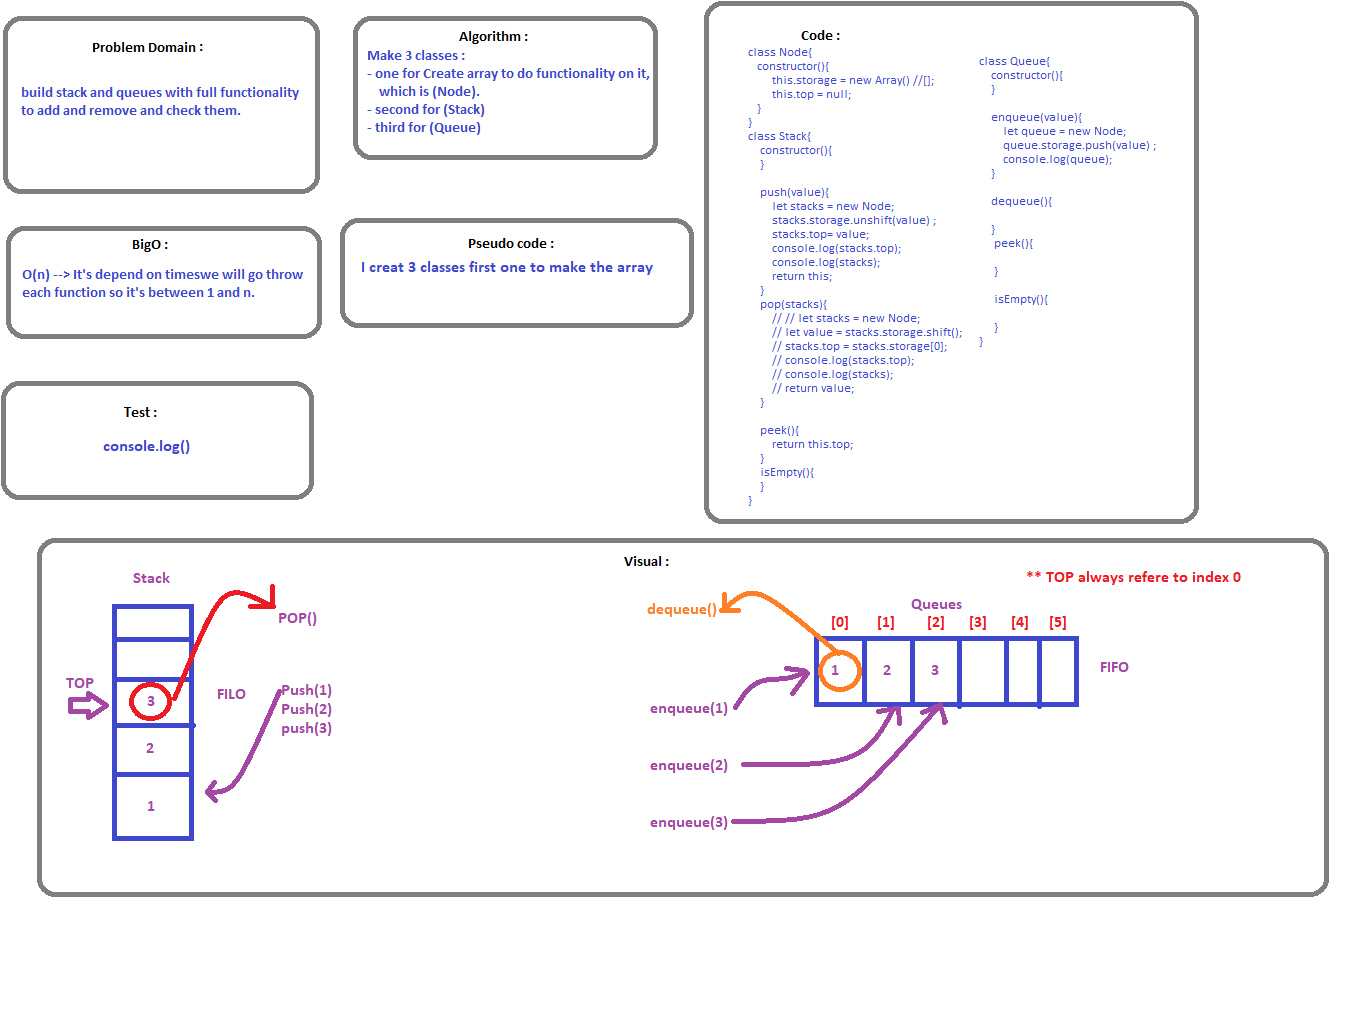
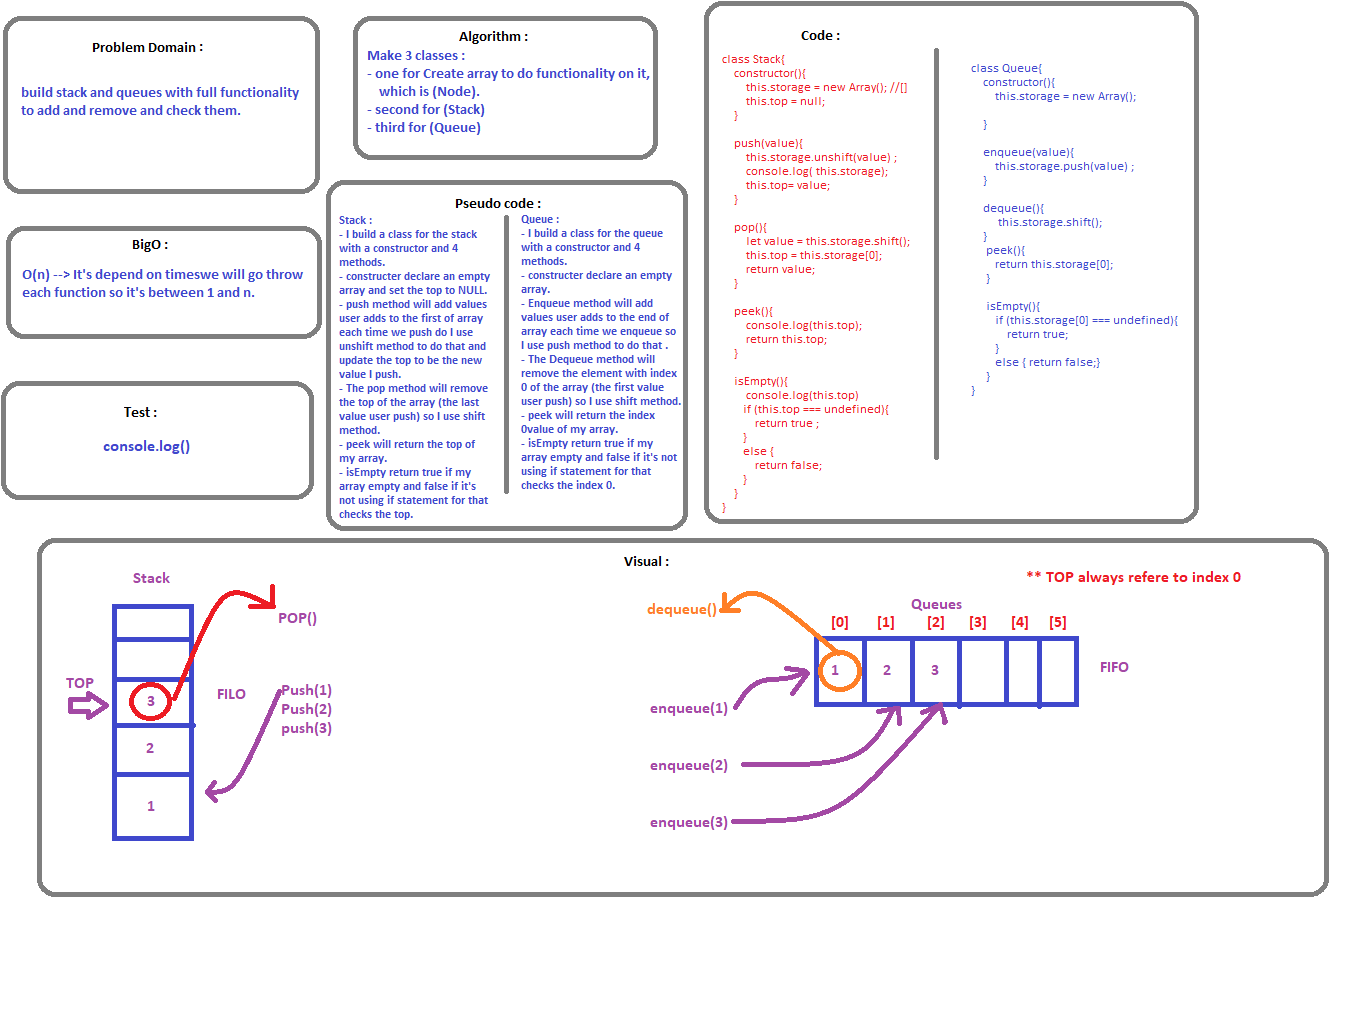
done

Changed region(s): [[0.2162, 0.0312, 0.8338, 0.5312]]

diff --git a/challenges/stacksAndQueues/stacks-and-queues.js b/challenges/stacksAndQueues/stacks-and-queues.js
@@ -1,75 +1,90 @@
 'use strict';
 
-class Node{
-   constructor(){
-        this.storage = new Array() //[];
-        this.top = null;
-   }
-}
-
 class Stack{
     constructor(){
+        this.storage = new Array(); //[]
+        this.top = null;
     }
 
     push(value){
-        let stacks = new Node;
-        stacks.storage.unshift(value) ;
-        stacks.top= value;
-        console.log(stacks.top);
-        console.log(stacks);
-        return this;
+        this.storage.unshift(value) ;
+        console.log( this.storage);
+        this.top= value;
     }
 
-    pop(stacks){
-        // // let stacks = new Node;
-        // let value = stacks.storage.shift();
-        // stacks.top = stacks.storage[0];
-        // console.log(stacks.top);
-        // console.log(stacks);
-        // return value;
+    pop(){
+        let value = this.storage.shift();
+        this.top = this.storage[0];
+        return value;
     }
 
     peek(){
+        console.log(this.top);
         return this.top;
     }
 
     isEmpty(){
-
+        console.log(this.top)
+       if (this.top === undefined){
+           return true ;
+       }
+       else {
+           return false;
+       }
     }
 }
 
 class Queue{
     constructor(){
+        this.storage = new Array();
+
     }
 
     enqueue(value){
-        let queue = new Node;
-        queue.storage.push(value) ;
-        console.log(queue);
+        this.storage.push(value) ; 
     }
 
     dequeue(){
-
+         this.storage.shift();
     } 
      peek(){
-
+        return this.storage[0];
      }
 
      isEmpty(){
-
+        if (this.storage[0] === undefined){
+            return true;
+        }
+        else { return false;}
      }
 }
+
+module.exports ={
+    Stack,
+    Queue
+} 
+
 
 // let queue = new Queue;
 // queue.enqueue(1);
 // queue.enqueue(2)
-
-
+// queue.dequeue()
+// queue.enqueue(7)
+// queue.dequeue()
+// queue.dequeue()
+// queue.dequeue()
+// queue.dequeue()
+// console.log(queue.peek())
+// console.log(queue.isEmpty())
 // let stacks = new Stack;
 // stacks.push(2)
 // stacks.push(4)
 // stacks.push(7)
 // console.log(stacks);
 // stacks.pop();
-
-
+// stacks.peek()
+// stacks.pop();
+// stacks.pop();
+// stacks.pop();
+// stacks.pop();
+// console.log(stacks.isEmpty())

diff --git a/challenges/__test__/stack&queue.test.js b/challenges/__test__/stack&queue.test.js
@@ -1,15 +1,40 @@
 'use strict';
 
-const SatckAndQues = require('../stacksAndQueues/stacks-and-queues');
+const {Stack,Queue} = require('../stacksAndQueues/stacks-and-queues');
 
-// describe('stack', ()=> {
+describe('stack', ()=> {
 
-//     it('creates an instance', ()=> {
-//         let stack = new SatckAndQues();
-//         stack.push(1);
-//         stack.push(2);
-//         stack.push(3);
-//         expect(stack.peek()).toEqual(3);
-//     });
+    it('Check push', ()=> {
+        let stack = new Stack();
+        stack.push(1);
+        stack.push(2);
+        stack.push(3);
+        expect(stack.peek()).toEqual(3);
+    });
 
-// });
+    it('check pop' , ()=>{
+        let stack= new Stack();
+        stack.push(1);
+        stack.push(2);
+        stack.push(3);
+        stack.pop();
+        expect(stack.peek()).toEqual(2);
+    });
+
+    it('Check push', ()=> {
+        let queue = new Queue();
+        queue.enqueue(1);
+        queue.enqueue(2);
+        queue.enqueue(3);
+        expect(queue.peek()).toEqual(1);
+    });
+
+    it('check pop' , ()=>{
+        let queue= new Queue();
+        queue.enqueue(1);
+        queue.enqueue(2);
+        queue.enqueue(3);
+        queue.dequeue();
+        expect(queue.peek()).toEqual(2);
+    });
+});
